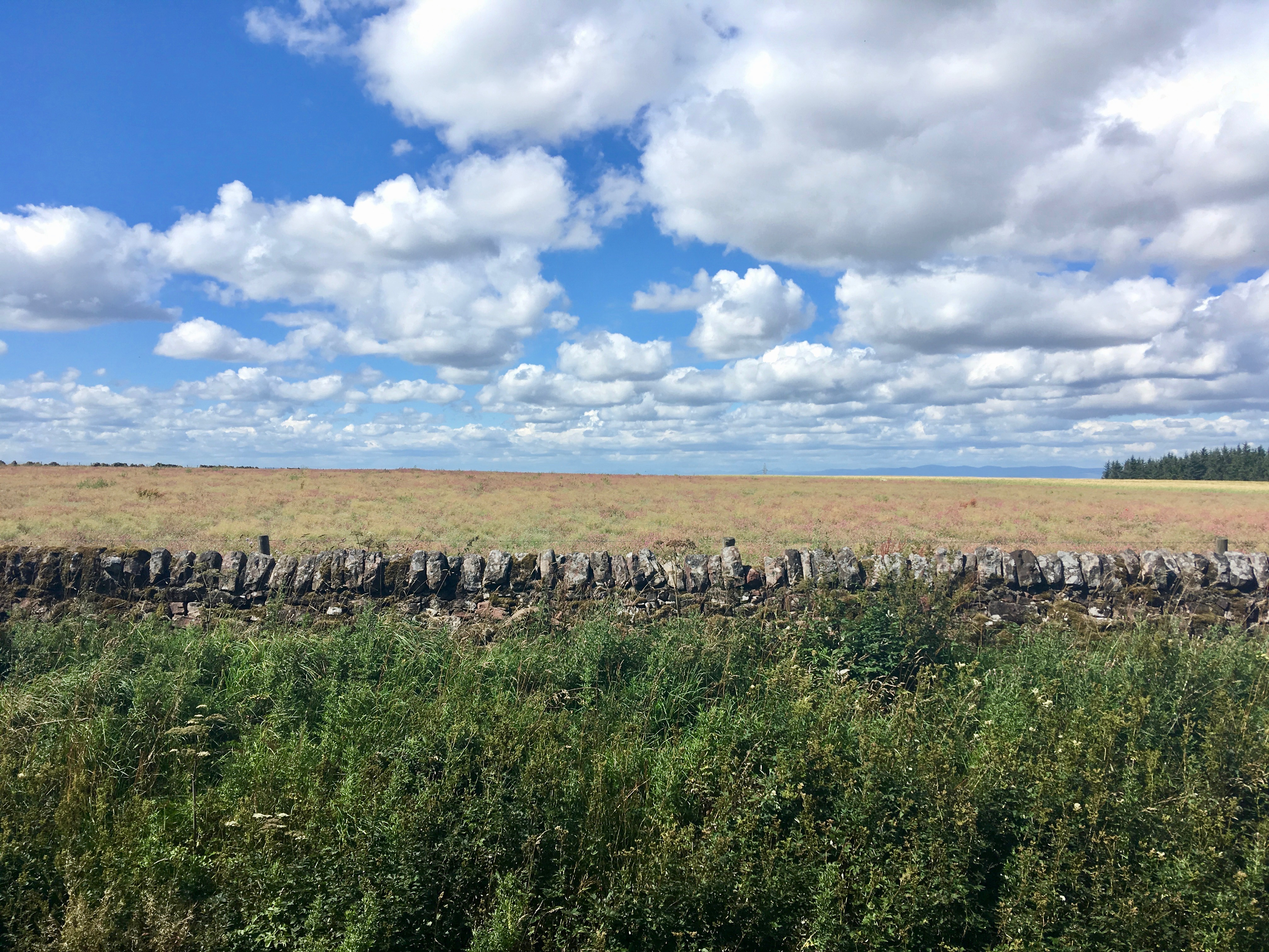
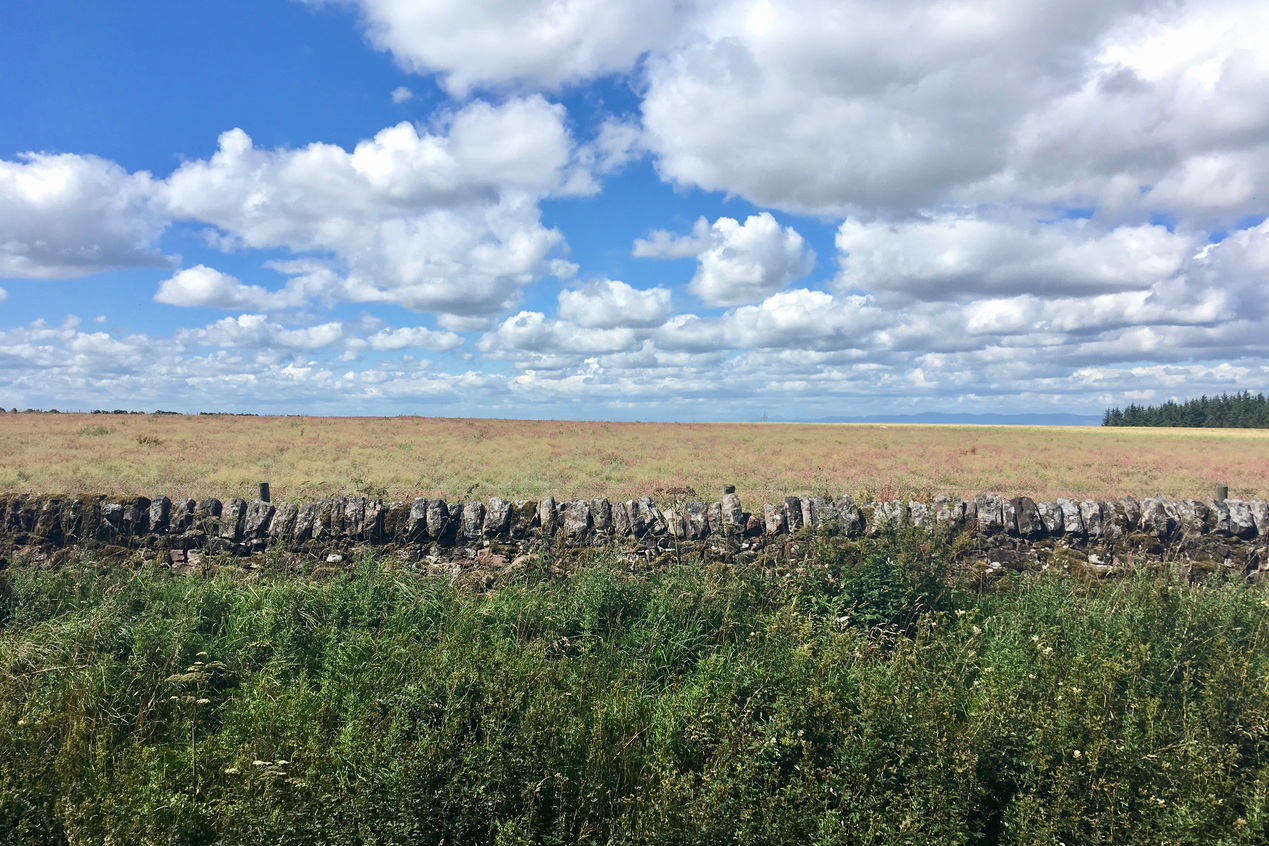
Tweak the performance of responsive images

diff --git a/source/_includes/recent-blog-posts.html b/source/_includes/recent-blog-posts.html
@@ -12,10 +12,12 @@
             rel="noopener"
             href="{{ post.url }}"
           >
-            <div
-              class="image-list__image"
-              style="background-image: url({{ post.img }})"
-            ></div>
+            <img
+              src="{{ post.img }}"
+              alt=""
+              sizes="(min-width: 900px) 224px,
+            30vw"
+            />
             <div class="image-list__text">
               <h3 class="image-list__title">{{ post.title }}</h3>
               by {{ post.author }}

diff --git a/.eleventy.js b/.eleventy.js
@@ -47,7 +47,7 @@ module.exports = function (eleventyConfig) {
         step: 150, // Width difference between each resized image
       },
       gifToVideo: false, // Convert GIFs to MP4 videos
-      sizes: '100vw', // Default image `sizes` attribute
+      sizes: '30vw', // Default image `sizes` attribute
       lazy: true, // Include `loading="lazy"` attribute for images
       // additional: [
       //   // Globs of additional images to optimize (won't be resized)
